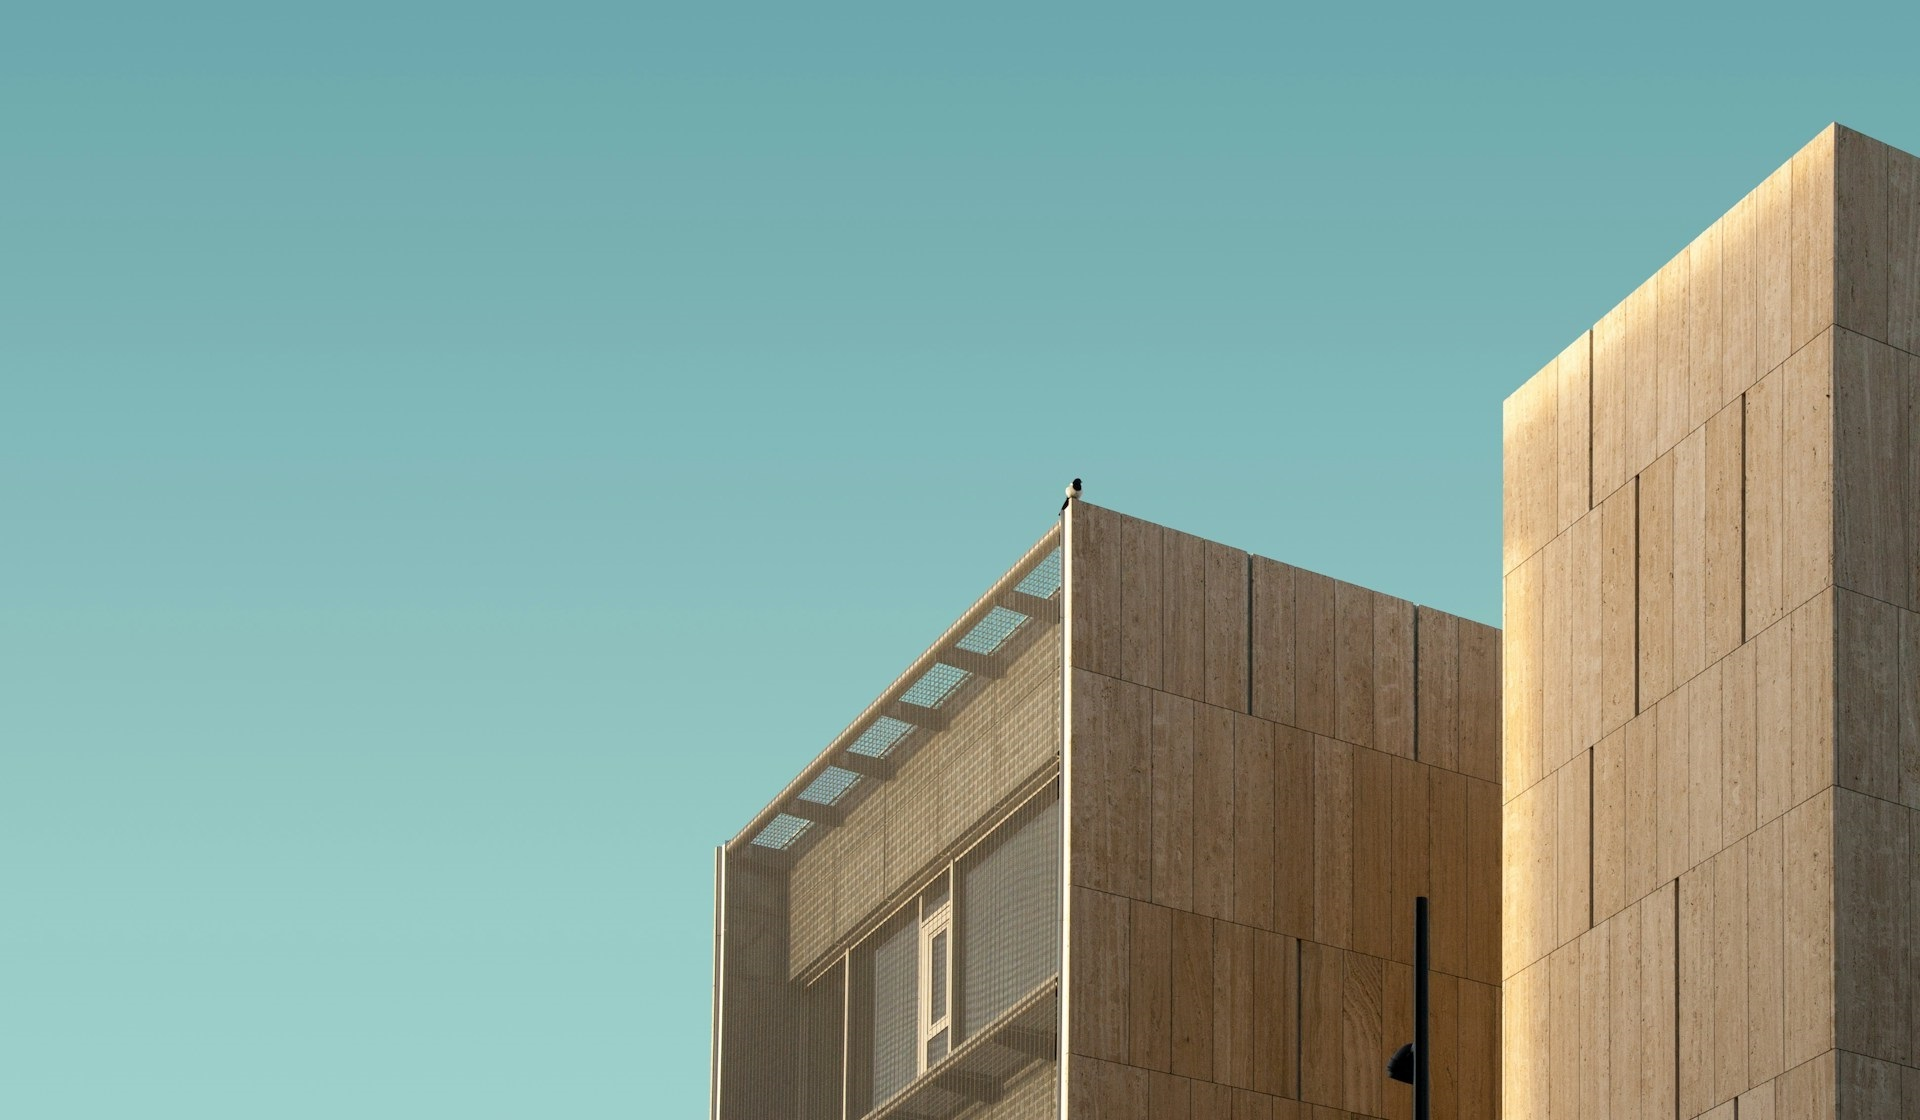
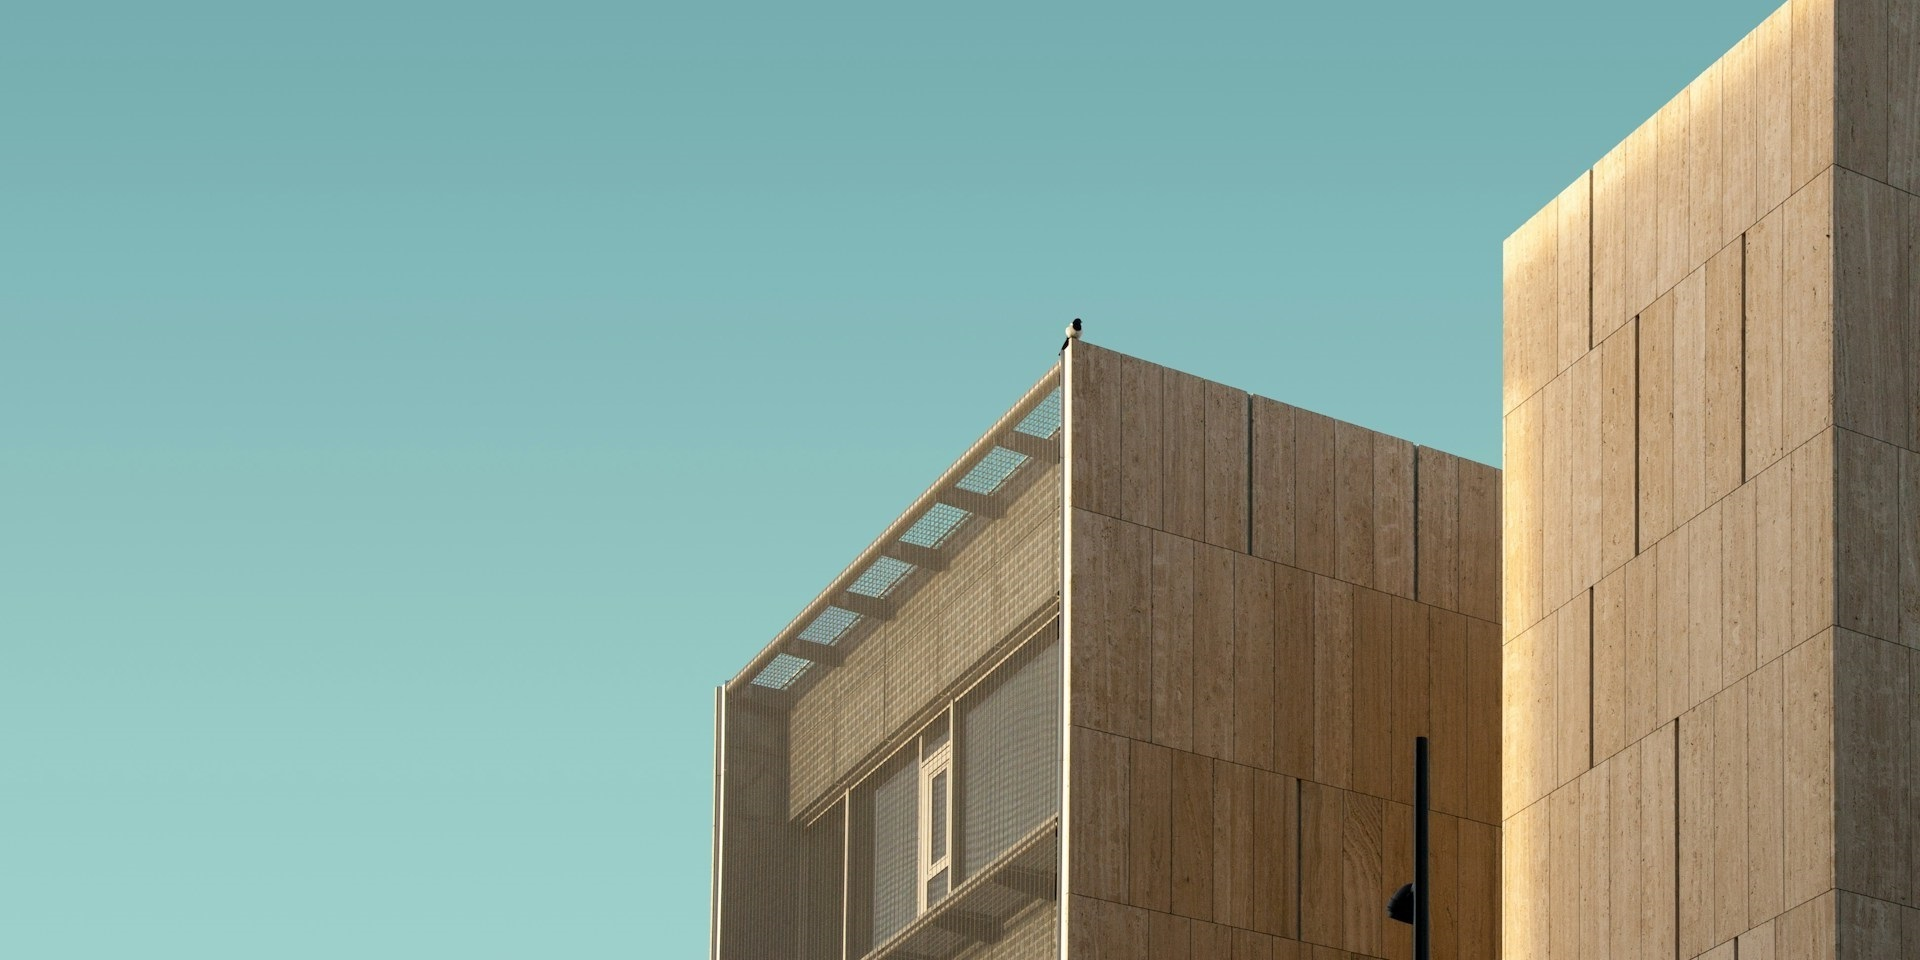
readme added

diff --git a/css/banner.css b/css/banner.css
@@ -3,7 +3,7 @@
 }
 .banner_block {
   position: relative;
-  height: 550px;
+  height: 500px;
   border-radius: 10px;
   overflow: hidden;
 }
@@ -11,13 +11,41 @@
   width: 100%;
   height: 100%;
   object-fit: cover;
-  object-position: bottom;
+  /*object-position: bottom;*/
 }
-.banner_block h3 {
+.banner_block h3,
+.banner_block p {
   width: 600px;
   position: absolute;
-  top: 50px;
+  top: 60px;
   left: 50px;
-  color: var(--vz-white);
+  color: var(--vz-main);
+  font-weight: 500;
   line-height: 38px;
+}
+.banner_block p {
+  width: 450px;
+  top: 180px;
+  color: var(--vz-gray-800);
+  line-height: 20px;
+}
+.banner_block a {
+  position: absolute;
+  bottom: 60px;
+  left: 50px;
+  display: block;
+  font-family: ff-secondary;
+  font-size: 16px;
+  font-weight: 500;
+  line-height: 20px;
+  text-decoration: none;
+  color: var(--vz-gray-700);
+  padding: 10px 26px;
+  background: rgba(255, 255, 255, 0.44);
+  border-radius: 30px;
+  box-shadow: 0 4px 30px rgba(0, 0, 0, 0.1);
+  backdrop-filter: blur(5.9px);
+}
+.banner_block a:last-of-type {
+  left: 210px;
 }

diff --git a/css/services.css b/css/services.css
@@ -1,6 +1,35 @@
 .services {
   padding: 40px 0 60px 0;
 }
+.services h3 {
+  line-height: 36px;
+  margin-bottom: 0;
+}
+.services a {
+  display: inline-flex;
+  align-items: center;
+  font-size: 14px;
+  line-height: 16px;
+  text-decoration: none;
+  color: var(--vz-main);
+  padding: 9px 27px;
+  border: 1px solid var(--vz-main);
+  border-radius: 20px;
+  transition: 0.3s;
+}
+.services a img {
+  width: 15px;
+  height: 15px;
+  margin-left: 8px;
+  transition: 0.3s;
+}
+.services a:hover {
+  color: var(--vz-white);
+  background-color: var(--vz-main);
+}
+.services a:hover img {
+  filter: invert(100%);
+}
 .services_box {
   display: flex;
   flex-direction: column;

diff --git a/style.css b/style.css
@@ -84,6 +84,24 @@ h6 {
   color: var(--vz-gray-700);
 }
 
+/* PAGE TITLE */
+.page_title {
+  padding: 60px 0;
+}
+.page_title h2 {
+  font-size: 40px;
+  font-weight: 500;
+}
+.page_title hr {
+  border-width: 2px;
+  color: var(--vz-main);
+}
+.page_title p {
+  max-width: 1000px;
+  width: 100%;
+  color: var(--vz-gray-700);
+}
+
 /* ANIMATION */
 .hide-image {
   height: 0 !important;

diff --git a/about-us.php b/about-us.php
@@ -1,0 +1,29 @@
+<!DOCTYPE html>
+<html>
+<head>
+    <?php
+        define('meta', TRUE);
+        include 'inc/head.php';
+    ?>
+    <title>Services | ZONA</title>
+</head>
+<body>
+    <?php
+        define('nav', TRUE);
+        include 'inc/nav.php';
+    ?>
+
+    <section class="page_title">
+        <div class="wrapper">
+            <div class="row">
+                <div class="col-12">
+                    <h2>About us</h2>
+                    <hr/>
+                    <p>Welcome to <b>ZONA</b>, where innovation and creativity meet. As a leading architectural firm, we have been shaping the skylines of tomorrow since our inception in 2008. Our team of talented architects and designers is committed to delivering exceptional results that exceed our clients' expectations. With a focus on sustainability and cutting-edge design, we are dedicated to creating spaces that are not only beautiful but also functional and environmentally friendly.</p>
+                    <p>Learn more about our story, our team, and our values below.</p>
+                </div>
+            </div>
+        </div>
+    </section>
+</body>
+</html>

diff --git a/index.php b/index.php
@@ -158,8 +158,9 @@
                 <div class="col-12">
                     <h6><img src="./assets/sub-icon.svg" />WHAT WE DO</h6>
                 </div>
-                <div class="col-12">
+                <div class="col-12 mb-30 d-flex align-items-center justify-content-between">
                     <h3>Our Services</h3>
+                    <a href="./services">View all<img src="./assets/btn-arrow.svg" /></a>
                 </div>
             </div>
             <div class="row">
@@ -360,6 +361,9 @@
                     <div class="banner_block">
                         <img src="./images/banner.jpg" />
                         <h3>Enhance your property's curb appeal with stunning landscape design.</h3>
+                        <p>Contact us today for expert design solutions that elevate your interiors, enhance your landscape, and bring your vision to life.</p>
+                        <a href="">Get in touch</a>
+                        <a href="">Online consultations</a>
                     </div>
                 </div>
             </div>

diff --git a/services.php b/services.php
@@ -1,0 +1,29 @@
+<!DOCTYPE html>
+<html>
+<head>
+    <?php
+        define('meta', TRUE);
+        include 'inc/head.php';
+    ?>
+    <title>Services | ZONA</title>
+</head>
+<body>
+    <?php
+        define('nav', TRUE);
+        include 'inc/nav.php';
+    ?>
+
+    <section class="page_title">
+        <div class="wrapper">
+            <div class="row">
+                <div class="col-12">
+                    <h2>Our services</h2>
+                    <hr/>
+                    <p>Our comprehensive range of architectural services is designed to meet the diverse needs of our clients. From concept development to project completion, we offer a full suite of services to ensure that every project is a success. Whether you're looking for architectural design, project management, or sustainability consulting, our team of experts is here to help.</p>
+                    <p>Explore our services below and discover how we can bring your vision to life.</p>
+                </div>
+            </div>
+        </div>
+    </section>
+</body>
+</html>

diff --git a/projects.php b/projects.php
@@ -12,5 +12,18 @@
         define('nav', TRUE);
         include 'inc/nav.php';
     ?>
+
+    <section class="page_title">
+        <div class="wrapper">
+            <div class="row">
+                <div class="col-12">
+                    <h2>Our projects</h2>
+                    <hr/>
+                    <p>Here, you'll find a curated selection of our most innovative and inspiring architectural designs. Each project represents our dedication to creativity, functionality, and sustainability, as well as our commitment to exceeding our clients' expectations.</p>
+                    <p>Explore our portfolio below and discover how we're shaping the future of architecture one project at a time.</p>
+                </div>
+            </div>
+        </div>
+    </section>
 </body>
 </html>

diff --git a/inc/nav.php b/inc/nav.php
@@ -7,10 +7,9 @@
             <a href="./"><img src="./assets/logo.svg" /></a>
         </div>
         <div class="nav-buttons d-flex align-items-center gap-4">
-            <a href="">About</a>
-            <a href="">Projects</a>
-            <a href="">Services</a>
-            <a href="">Reviews</a>
+            <a href="./about-us">About</a>
+            <a href="./projects">Projects</a>
+            <a href="./services">Services</a>
             <a href="">Contact us</a>
         </div>
     </div>

diff --git a/README.md b/README.md
@@ -1,0 +1,7 @@
+<h1 align="center">ZONA - Architecture company</h1>
+
+![Showcase](mockups/mockup_1.png)
+
+## Overview
+
+This project is an innovative architectural portfolio website developed for ZONA, a leading architecture firm dedicated to shaping the skylines of tomorrow. The website showcases a curated selection of their most inspiring projects, demonstrating their commitment to creativity, functionality, and sustainability.
